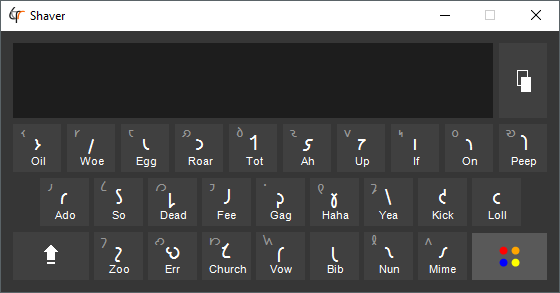
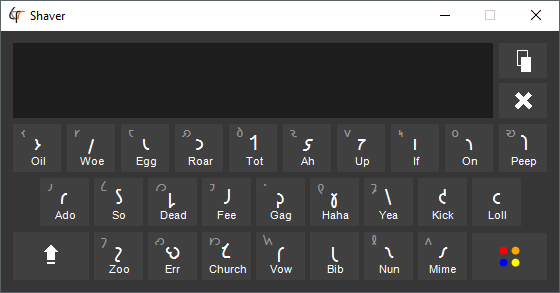
Add clear button

Changed region(s): [[0.8196, 0.7679, 1.0, 0.9829], [0.9107, 0.1843, 0.9714, 0.3686]]

diff --git a/Shaver/FormMain.Designer.cs b/Shaver/FormMain.Designer.cs
@@ -59,6 +59,7 @@
             this.keyButton3 = new Shaver.LetterButton();
             this.keyButton2 = new Shaver.LetterButton();
             this.keyButton1 = new Shaver.LetterButton();
+            this.clearButton1 = new Shaver.ClearButton();
             this.SuspendLayout();
             // 
             // inputBox
@@ -94,7 +95,7 @@
             this.copyButton1.MouseDownColor = System.Drawing.Color.Black;
             this.copyButton1.MouseOverColor = System.Drawing.Color.Gray;
             this.copyButton1.Name = "copyButton1";
-            this.copyButton1.Size = new System.Drawing.Size(48, 75);
+            this.copyButton1.Size = new System.Drawing.Size(48, 35);
             this.copyButton1.TabIndex = 26;
             this.copyButton1.TextColor = System.Drawing.Color.White;
             this.copyButton1.Click += new System.EventHandler(this.copyButton1_Click);
@@ -554,12 +555,26 @@
             this.keyButton1.TabIndex = 1;
             this.keyButton1.TextColor = System.Drawing.Color.White;
             // 
-            // Form1
+            // clearButton1
+            // 
+            this.clearButton1.DefaultColor = System.Drawing.Color.FromArgb(((int)(((byte)(64)))), ((int)(((byte)(64)))), ((int)(((byte)(64)))));
+            this.clearButton1.IconSize = 15;
+            this.clearButton1.Location = new System.Drawing.Point(498, 52);
+            this.clearButton1.MouseDownColor = System.Drawing.Color.Black;
+            this.clearButton1.MouseOverColor = System.Drawing.Color.Gray;
+            this.clearButton1.Name = "clearButton1";
+            this.clearButton1.Size = new System.Drawing.Size(48, 35);
+            this.clearButton1.TabIndex = 28;
+            this.clearButton1.TextColor = System.Drawing.Color.White;
+            this.clearButton1.Click += new System.EventHandler(this.clearButton1_Click);
+            // 
+            // FormMain
             // 
             this.AutoScaleDimensions = new System.Drawing.SizeF(6F, 13F);
             this.AutoScaleMode = System.Windows.Forms.AutoScaleMode.Font;
             this.BackColor = System.Drawing.Color.DimGray;
             this.ClientSize = new System.Drawing.Size(558, 261);
+            this.Controls.Add(this.clearButton1);
             this.Controls.Add(this.colorSchemeButton1);
             this.Controls.Add(this.copyButton1);
             this.Controls.Add(this.keyButton27);
@@ -636,6 +651,7 @@
         private ShiftButton keyButton27;
         private CopyButton copyButton1;
         private ColorSchemeButton colorSchemeButton1;
+        private ClearButton clearButton1;
     }
 }
 

diff --git a/Shaver/ClearButton.cs b/Shaver/ClearButton.cs
@@ -1,0 +1,53 @@
+using System.Drawing;
+using System.Windows.Forms;
+
+namespace Shaver
+{
+    /// <summary>
+    /// A clear keyboard button.
+    /// </summary>
+    class ClearButton : KeyboardButton
+    {
+        private int iconSize;
+
+        /// <summary>
+        /// Gets or sets the icon size on the button.
+        /// </summary>
+        public int IconSize
+        {
+            get
+            {
+                return iconSize;
+            }
+            set
+            {
+                iconSize = value;
+                Refresh();
+            }
+        }
+
+        /// <summary>
+        /// Initializes a new instance of a clear keyboard button.
+        /// </summary>
+        public ClearButton() : base()
+        {
+            // Initialize icon size to 15.
+            iconSize = 15;
+        }
+
+        protected override void OnPaint(PaintEventArgs e)
+        {
+            base.OnPaint(e);
+
+            // Draw cross symbol.
+            int height = iconSize;
+            int width = (height / 3) * 2;
+            e.Graphics.DrawLine(new Pen(TextColor, 5), (int)(Width / 2) - (int)(iconSize / 2), 
+                (int)(Height / 2) - (int)(iconSize / 2), (int)(Width / 2) + (int)(iconSize / 2),
+                (int)(Height / 2) + (int)(iconSize / 2));
+            e.Graphics.DrawLine(new Pen(TextColor, 5), (int)(Width / 2) + (int)(iconSize / 2),
+                (int)(Height / 2) - (int)(iconSize / 2), (int)(Width / 2) - (int)(iconSize / 2),
+                (int)(Height / 2) + (int)(iconSize / 2));
+        }
+    }
+}

diff --git a/Shaver/FormMain.cs b/Shaver/FormMain.cs
@@ -339,5 +339,12 @@ namespace Shaver
                 SetColorScheme(dialog.Color);
             }
         }
+
+        private void clearButton1_Click(object sender, EventArgs e)
+        {
+            // Clear input.
+            typedText.Clear();
+            inputBox.Text = TypedText;
+        }
     }
 }
